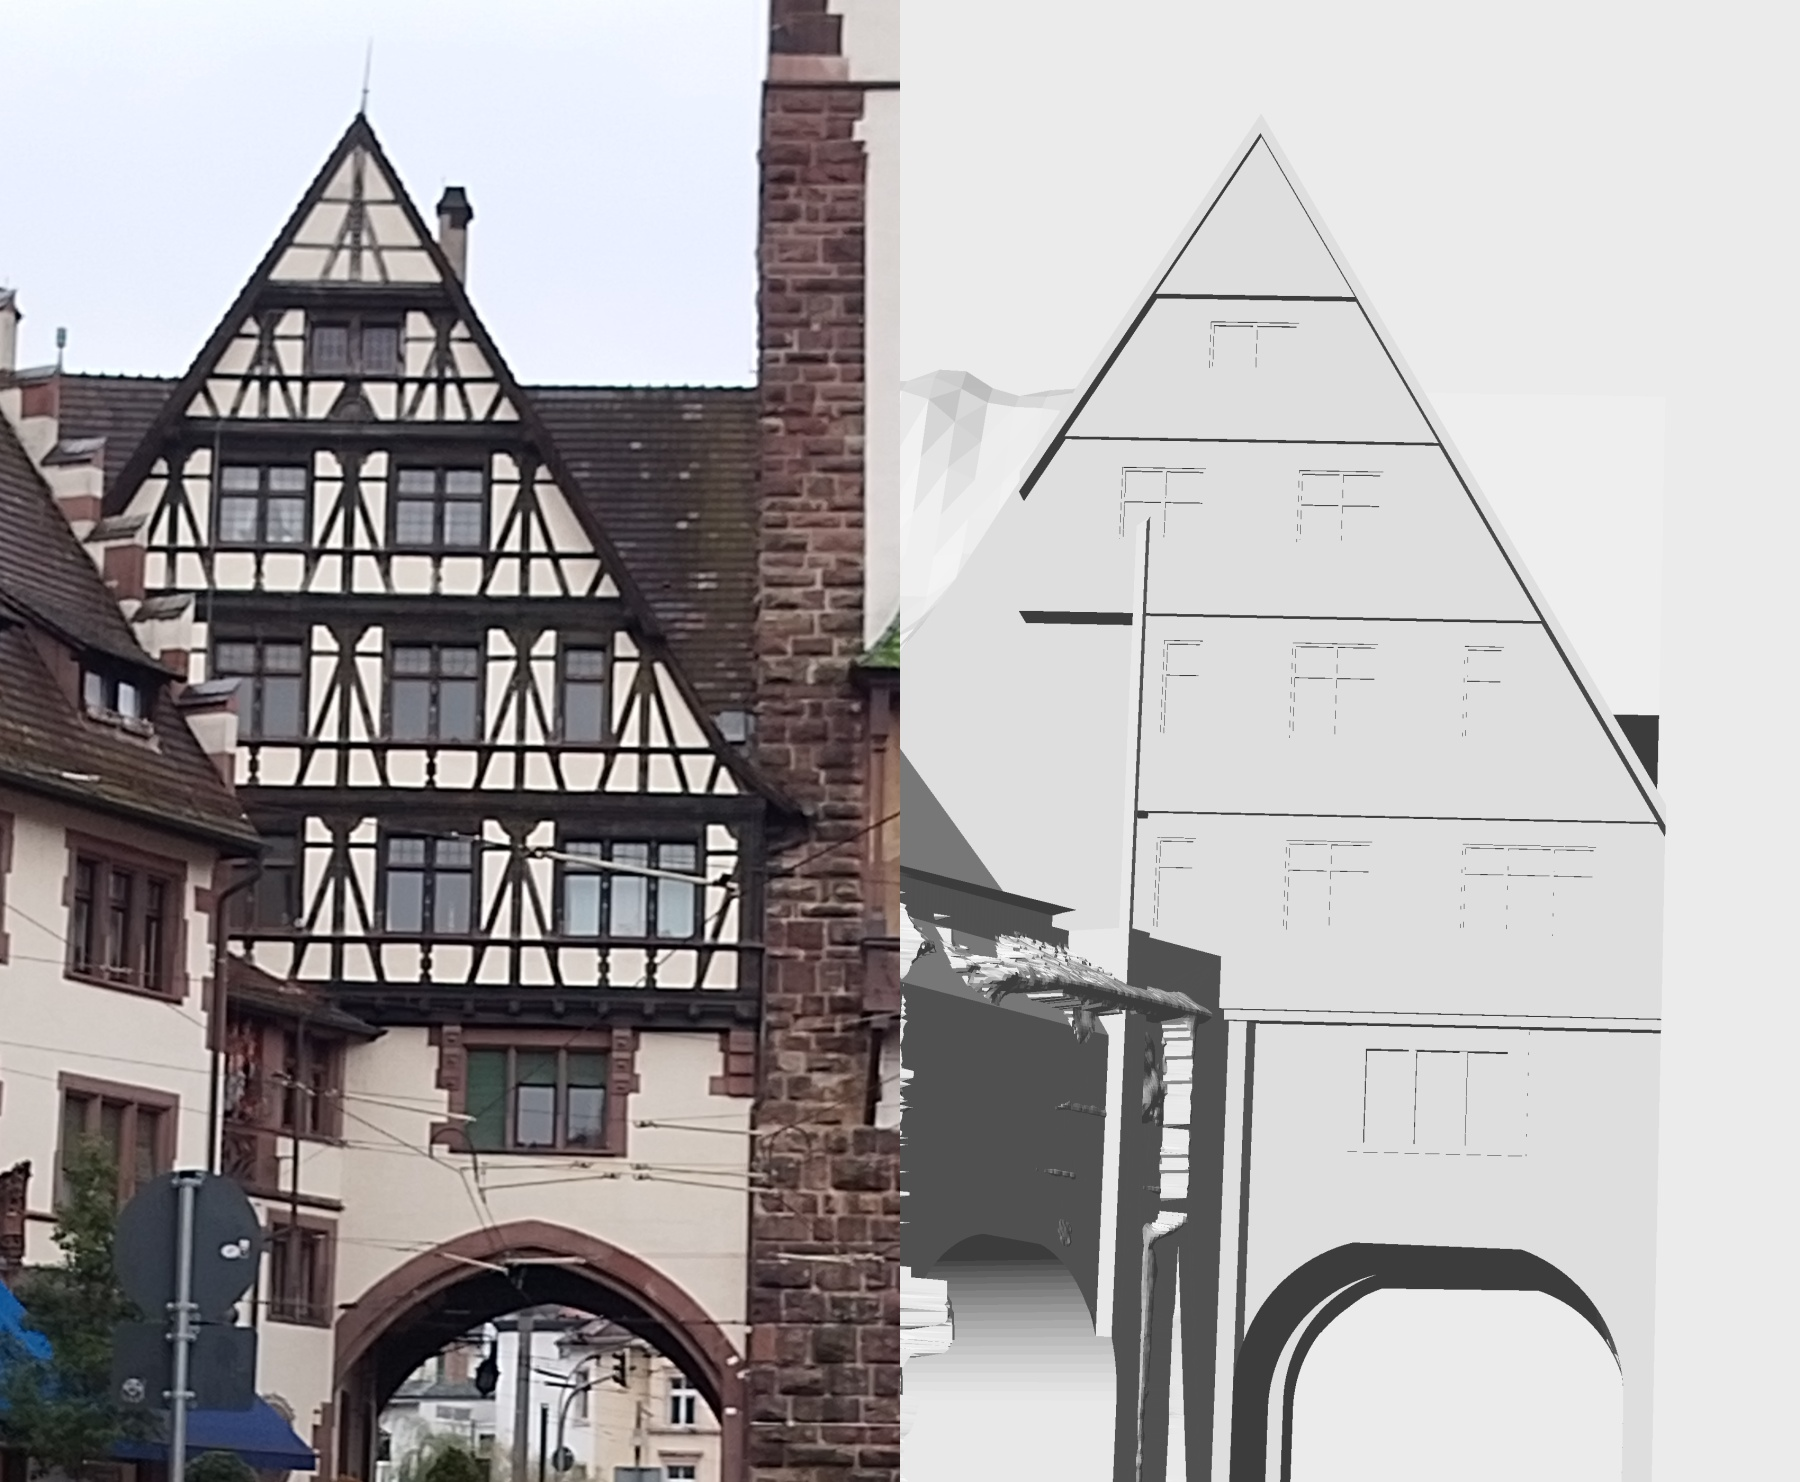
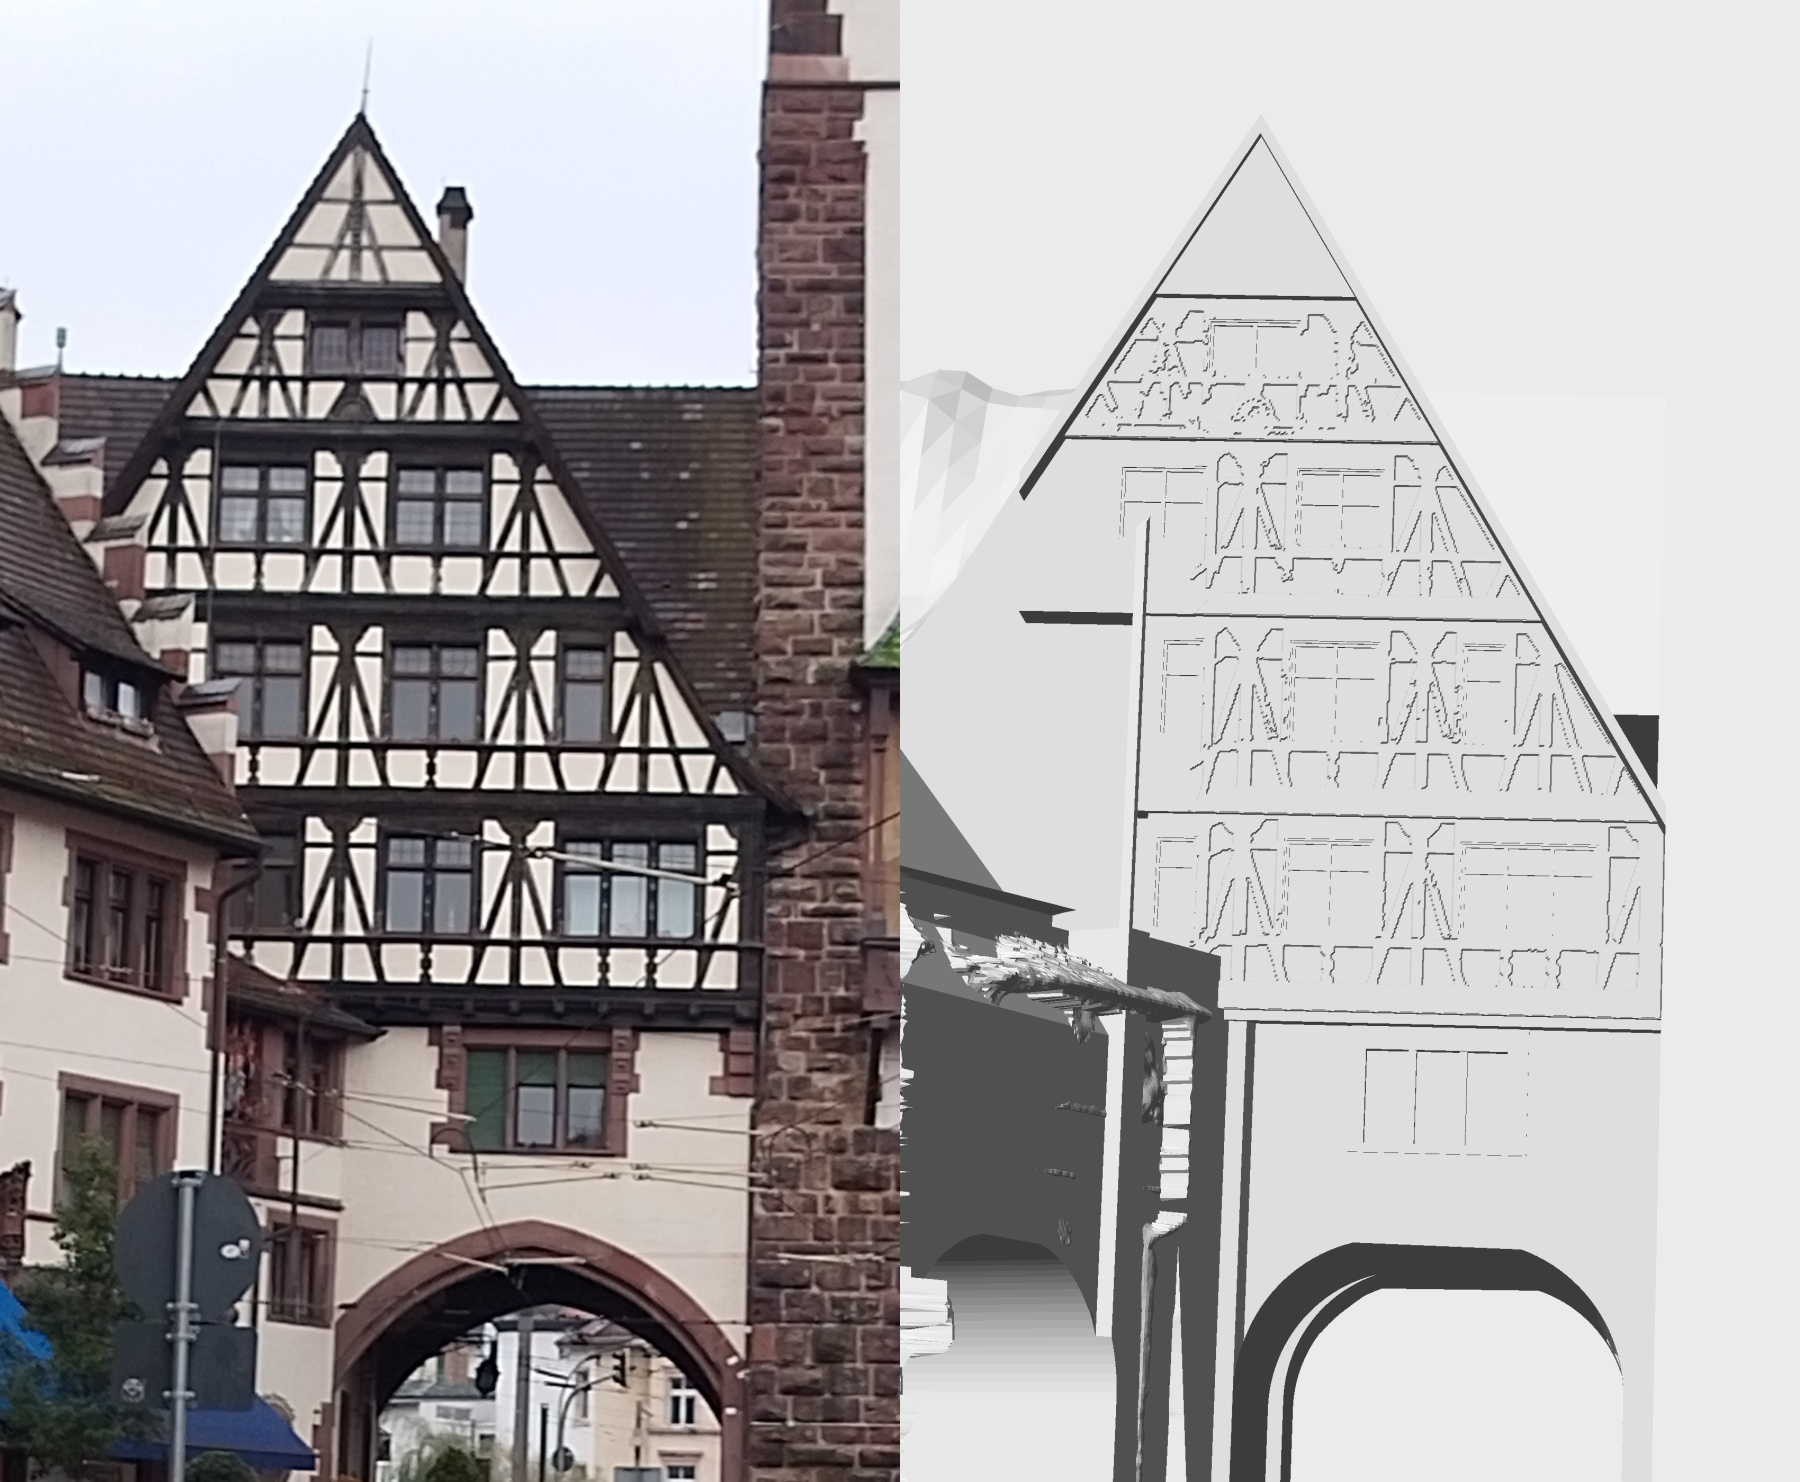
schwab_nachbar: Fachwerkbalken Nordgiebel (Geschosse A-D) aus dem Mehrfoto-Fassadenbild, Abnahme gruen
Claude-Session: https://claude.ai/code/session_01BMC5F7JqzthTsrTAV2gKLz

diff --git a/tools/fachwerk_aus_ortho.py b/tools/fachwerk_aus_ortho.py
@@ -1,0 +1,30 @@
+#!/usr/bin/env python3
+"""fachwerk_aus_ortho.py <ortho-ordner> <aus-ordner> ID [ID ...] [--px 0.025] [--hoehe 0.035] [--v 0.42] - Fachwerkbalken einer Geschossflaeche als flaches Relief aus dem MEHRFOTO-Fassadenbild.
+
+Balken = dunkles Holz auf hellem Putz. Quelle ist das ueber 10-12 Fotos gemittelte Ortho (fassade_ortho.py, Median der besten Fotos je Zelle) - nicht ein Einzelfoto;
+Passanten, Draehte und Schatten einzelner Fotos sind dort schon heraus. Schwelle auf die Helligkeit (V < --v), kleine Flecken weg, Fensterflaechen (fenster.json) ausgespart,
+Rand des Bildes (keine Fotodaten) = kein Balken. Ausgabe je ID <aus>/fachwerk_<ID>.npz im Format von relief_einsatz.py (rel = --hoehe auf Balken, sonst 0; Ebene = Fassadenebene
+o, d, n aus fassaden.json) + .jpg (Balken rot ueber dem Ortho) zum ANSEHEN. Im Generator: relief_einsatz.koerper(npz, tiefe=0.05, rand_auslauf=False) VOR dem Ausschneiden der Fenster.
+Abweichung von der Regel 'linienhafte Features nur per Kanten-Sweep': hier Farbschwelle, aber auf dem Mehrfoto-Median bei sehr hohem Kontrast (schwarz/weiss) - als ANNAHME belegen.
+"""
+import sys, os, json, argparse, numpy as np, cv2
+
+
+def main():
+    ap = argparse.ArgumentParser(); ap.add_argument("ortho"); ap.add_argument("aus"); ap.add_argument("ids", nargs="+"); ap.add_argument("--px", type=float, default=0.025); ap.add_argument("--hoehe", type=float, default=0.035); ap.add_argument("--v", type=float, default=0.42); a = ap.parse_args()
+    FA = {F.get("id") or F.get("id_vorbau"): F for F in json.load(open(os.path.join(a.ortho, "fassaden.json")))["fassaden"]}; fj = os.path.join(a.ortho, "fenster.json"); FE = json.load(open(fj)) if os.path.exists(fj) else {}; os.makedirs(a.aus, exist_ok=True)
+    for fid in a.ids:
+        F = FA[fid]; im = cv2.imread(os.path.join(a.ortho, f"ortho_{fid}.png")); r = F["raster"]; zl = r["zelle"]; H0, W0 = im.shape[:2]; leer = im.sum(2) == 0; V = cv2.cvtColor(im, cv2.COLOR_BGR2HSV)[..., 2].astype(np.float32) / 255.0
+        holz = (V < a.v) & ~cv2.dilate(leer.astype(np.uint8), np.ones((9, 9), np.uint8)).astype(bool)
+        for w in FE.get(fid, {}).get("fenster", []):
+            x0, x1 = int((w["u0"] - r["u0"]) / zl), int((w["u1"] - r["u0"]) / zl); y0, y1 = int((r["z1"] - w["z1"]) / zl), int((r["z1"] - w["z0"]) / zl); holz[max(y0, 0):y1, max(x0, 0):x1] = False
+        k = max(1, int(round(a.px / zl))); px = zl * k; H, W = H0 // k, W0 // k; m = holz[H0 - H * k:, :W * k].reshape(H, k, W, k).mean((1, 3)) >= 0.5
+        m = cv2.morphologyEx(m.astype(np.uint8), cv2.MORPH_OPEN, np.ones((2, 2), np.uint8)); n_, lab, st, _ = cv2.connectedComponentsWithStats(m, 8); m = np.isin(lab, 1 + np.flatnonzero(st[1:, 4] * px * px >= 0.05))
+        rel = np.where(m, a.hoehe, 0.0).astype(np.float32); u0 = r["u0"]; z0 = r["z1"] - H0 * zl
+        np.savez_compressed(os.path.join(a.aus, f"fachwerk_{fid}.npz"), rel=rel, a=np.array(F["o"]), t=np.array(F["d"]), n=np.array(F["n"]), u0=u0, z0=z0, px=px, lochanteil=0.0, hub_p5_p95=a.hoehe, ebene_abstand_m=0.0, trend_je_m=np.zeros(2), balken_anteil=float(m.mean()))
+        vis = cv2.resize(im[H0 - H * k:, :W * k], (W, H), interpolation=cv2.INTER_AREA); vis[m] = (0.4 * vis[m] + 0.6 * np.array([0, 0, 255])).astype(np.uint8); cv2.imwrite(os.path.join(a.aus, f"fachwerk_{fid}.jpg"), vis)
+        print(f"{fid}: {W}x{H} Zellen a {px*100:.1f} cm, Balkenanteil {m.mean()*100:.0f} %, u {u0:.2f}..{u0 + W * px:.2f}, z {z0:.2f}..{z0 + H * px:.2f}")
+
+
+if __name__ == "__main__":
+    sys.exit(main())

diff --git a/modelle/schwab_nachbar_gen.py b/modelle/schwab_nachbar_gen.py
@@ -46,6 +46,11 @@ if obj.get("lod2", {}).get("id"):                    # Standard: LoD2-Grundriss 
     koerper = koerper + WN.kasten(-1.67, UR, 9.96, 10.14, -0.3, 0.40)   # Balkenlage unter dem ersten Fachwerkgeschoss (Balkenkoepfe fehlen)
     for z0_, z1_, w_, ul_ in ((10.14, 13.41, 0.54, -1.67), (13.41, 16.75, 0.73, -1.9), (16.75, 19.75, 0.93, -3.96), (19.75, 22.2, 1.11, -3.96), (22.2, 26.0, 1.38, -3.96)):
         koerper = koerper + (WN.kasten(ul_, UR, z0_ - 0.01, z1_, -0.3, w_) ^ dreieck(0.34, -1.0, 2.0))
+    # 16.11.2026 FACHWERKBALKEN: 3,5 cm vor dem Putz, Lage aus dem Mehrfoto-Fassadenbild (tools/fachwerk_aus_ortho.py; 10-12 Fotos gemittelt, Schwelle dunkel/hell), je Geschoss auf dessen Flaeche
+    for id_, z0_, z1_, w_, ul_ in (("e17", 10.14, 13.41, 0.54, -1.67), ("e18", 13.41, 16.75, 0.73, -1.9), ("e20", 16.75, 19.75, 0.93, -3.96), ("e21", 19.75, 22.2, 1.11, -3.96)):
+        fw_ = os.path.join(HERE, "schwab_nachbar", "relief", f"fachwerk_{id_}.npz")
+        if os.path.exists(fw_) and os.environ.get("OHNE_FACHWERK") != "1": koerper = koerper + (relief_koerper(fw_, tiefe=0.05, rand_auslauf=False) ^ (WN.kasten(ul_, UR, z0_, z1_, w_ - 0.1, w_ + 0.1) ^ dreieck(0.34, -1.0, 2.0)))
+    beleg("wand", "Fachwerkbalken Nordgiebel, Geschosse A-D (flaches Relief 3,5 cm)", "Mehrfoto-Fassadenbild (fassade_ortho.py, 12 Fotos, Median) -> tools/fachwerk_aus_ortho.py (Helligkeitsschwelle)", hinweis="ANNAHME: Balkenstaerke vor dem Putz 3,5 cm; Lage aus Farbschwelle auf dem Mehrfoto-Median statt Kanten-Sweep; linke Giebelhaelfte (im Fassadenbild verdeckt) und oberstes Giebelfeld ohne Balken; Schnitzwerk fehlt")
     FEN = [(-1.50, -0.85, 11.43, 12.99, 0.54, (), 12.53), (0.67, 2.11, 11.43, 12.99, 0.54, (1.39,), 12.53), (3.62, 5.85, 11.43, 12.99, 0.54, (4.35, 5.12), 12.53),
            (-1.50, -0.85, 14.69, 16.33, 0.73, (), 15.78), (0.67, 2.11, 14.69, 16.33, 0.73, (1.39,), 15.78), (3.57, 4.23, 14.69, 16.33, 0.73, (), 15.78),
            (-2.31, -0.89, 18.02, 19.27, 0.93, (-1.60,), 18.72), (0.69, 2.11, 18.02, 19.27, 0.93, (1.40,), 18.72), (-0.89, 0.61, 20.97, 21.80, 1.11, (-0.14,), None)]
@@ -57,7 +62,7 @@ if obj.get("lod2", {}).get("id"):                    # Standard: LoD2-Grundriss 
     for u0_, u1_, z0_, z1_, w_, tl_, kz_ in FEN:
         sonde = WN.kasten(u0_, u1_, z0_, z1_, w_ + 0.03, w_ + 0.08)
         if (koerper ^ sonde).volume() > 0.2 * sonde.volume(): VERDECKT.append((u0_, z0_)); continue          # Fluegeldach (Teil 0, Laser) steht im Modell davor -> kein Hohlraum im Inneren bauen
-        ab_, zu_ = WN.fenster(u0_, u1_, z0_, z1_, w_, teiler=tl_, kaempfer=kz_); koerper = koerper - ab_ + zu_
+        ab_, zu_ = WN.fenster(u0_, u1_, z0_, z1_, w_, teiler=tl_, kaempfer=kz_); koerper = koerper - ab_ - WN.kasten(u0_ - 0.03, u1_ + 0.03, z0_ - 0.03, z1_ + 0.03, w_ + 0.001, w_ + 0.12) + zu_   # auch die Balkenplatte vor dem Fenster weg (sonst 2 cm Lippe / Splitter)
     koerper = koerper + WN.kasten(1.83, 4.80, 7.85, 9.98, -0.1, 0.06) - WN.kasten(2.09, 4.45, 8.0, 9.575, -0.2, 0.1)     # Steinfenster 1. OG: Gewaende 6 cm vor dem Putz (ANNAHME), Nische 20 cm (ANNAHME)
     koerper = koerper + WN.kasten(2.80, 2.93, 7.99, 9.585, -0.21, 0.03) + WN.kasten(3.65, 3.78, 7.99, 9.585, -0.21, 0.03)
     beleg("wand", "Nordgiebel: fuenf Fachwerkgeschosse mit Auskragungen, Ortgang, 9 Fenster, Steinfenster 1. OG", "foto_mass.py (M-113033-001..-007, M-113210-001..-007, M-113144-001/-002), Picks ueber wand_ortho.py; Geschossebenen aus der dichten Wolke",
